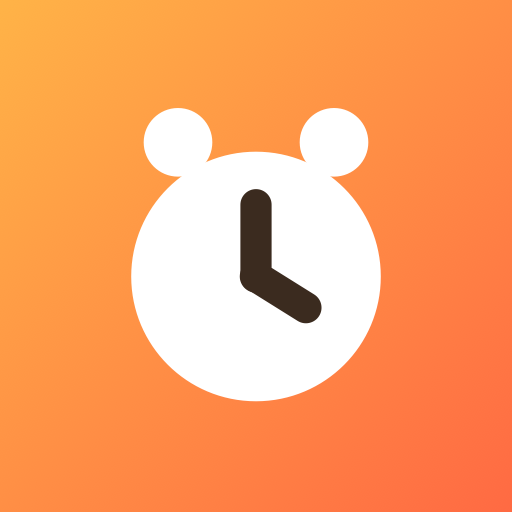
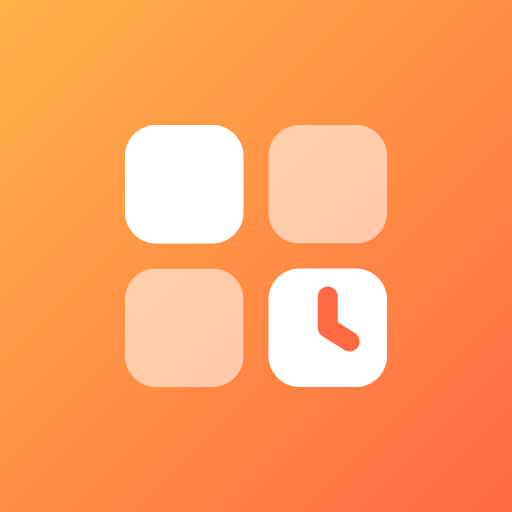
サイト: ファビコンとホーム画面のアイコンを案 E（パズルのマス＋時計）に。上のロゴは時計のまま（2026-11-21 ユーザー）

Changed region(s): [[0.2188, 0.1875, 0.7812, 0.7812]]

diff --git a/apps/tools/sitegen/icons.py b/apps/tools/sitegen/icons.py
@@ -9,12 +9,12 @@ def mark(full=False, small=False):
     # full: 角まで塗る（マスカブル・ホーム画面用）。small: 16〜32px 用に線を太く
     bg = '<rect width="64" height="64" fill="url(#g)"/>' if full else '<rect width="64" height="64" rx="18" fill="url(#g)"/>'
     s = 0.78 if full else 1.0                       # マスカブルは中央 80% に収める
-    sw = 6.2 if small else 5
-    face = (f'<g transform="translate(32 33) scale({s}) translate(-32 -33)">'
-            '<circle cx="19.5" cy="13.5" r="5.5" fill="#fff"/><circle cx="44.5" cy="13.5" r="5.5" fill="#fff"/>'
-            '<circle cx="32" cy="35" r="20" fill="#fff"/>'
-            f'<path d="M32 23.5V35l8 5" fill="none" stroke="#3b2b1f" stroke-width="{sw}" stroke-linecap="round" stroke-linejoin="round"/>'
-            + ('' if small else '<circle cx="32" cy="35" r="2.6" fill="#3b2b1f"/>') + '</g>')
+    # 2026-11-21 ユーザーが案 E（パズルのマス＋時計）にきめた。白いマス2つ・うすいマス2つ、右下のマスに時計の針
+    hw = 3.8 if small else 3.2
+    face = (f'<g transform="translate(32 32) scale({s}) translate(-32 -32)">'
+            '<rect x="11" y="11" width="19" height="19" rx="5" fill="#fff"/><rect x="34" y="11" width="19" height="19" rx="5" fill="#fff" opacity=".55"/>'
+            '<rect x="11" y="34" width="19" height="19" rx="5" fill="#fff" opacity=".55"/><rect x="34" y="34" width="19" height="19" rx="5" fill="#fff"/>'
+            f'<path d="M43.5 38.5v5l3.5 2.2" fill="none" stroke="#ff6a43" stroke-width="{hw}" stroke-linecap="round" stroke-linejoin="round"/></g>')
     return f'<svg xmlns="http://www.w3.org/2000/svg" viewBox="0 0 64 64">{GRAD}{bg}{face}</svg>'
 
 def favicon_svg():
@@ -40,7 +40,7 @@ if __name__ == '__main__':
     from playwright.sync_api import sync_playwright
     open(f'{R}/favicon.svg', 'w').write(favicon_svg())
     open(f'{R}/icon.svg', 'w').write(mark(full=True))
-    open(f'{R}/apps/logo.svg', 'w').write(mark())
+    # apps/logo.svg・apps/logo.png（サイトの上のロゴ）は時計のまま。ファビコンとホーム画面のアイコンだけ案 E（2026-11-21）
     with sync_playwright() as p:
         b = p.webkit.launch(); pg = b.new_page()
         tmp = '/tmp/imaapp_icons'; os.makedirs(tmp, exist_ok=True)
@@ -49,6 +49,5 @@ if __name__ == '__main__':
         png(pg, mark(), 192, f'{R}/icon-192.png'); png(pg, mark(), 512, f'{R}/icon-512.png')
         png(pg, mark(), 192, f'{R}/apps/icon-192.png'); png(pg, mark(), 512, f'{R}/apps/icon-512.png')
         png(pg, mark(full=True), 512, f'{R}/apps/icon-maskable-512.png', bg='#ff8a45')
-        png(pg, mark(), 180, f'{R}/apps/logo.png')
         b.close()
     print('ok')
